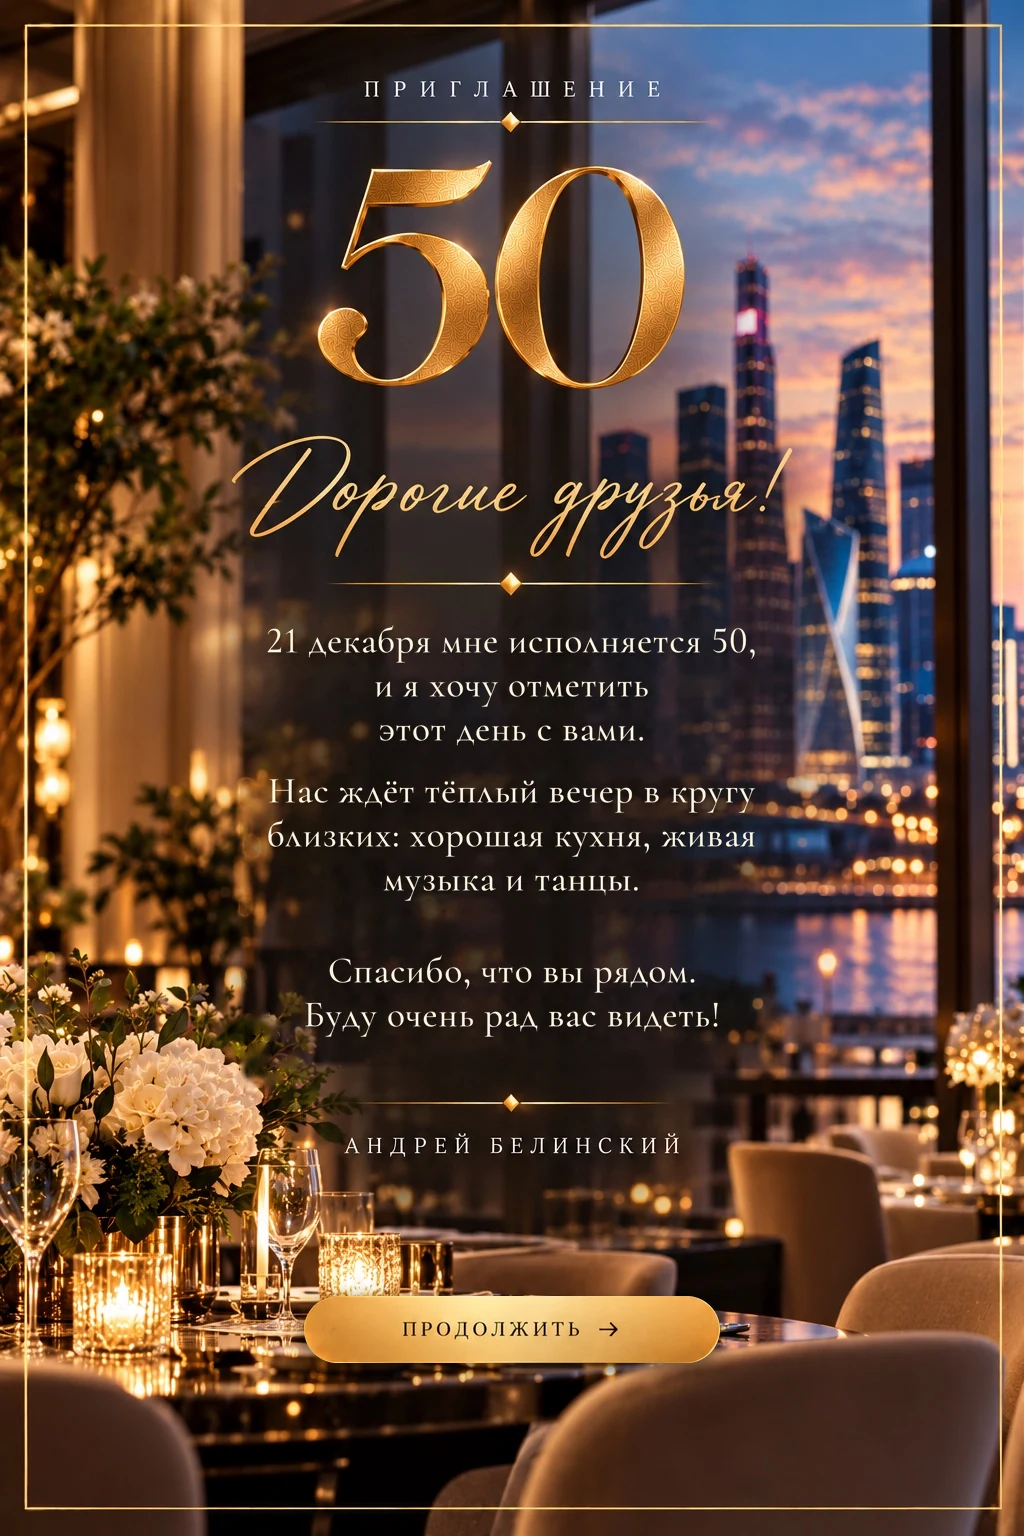
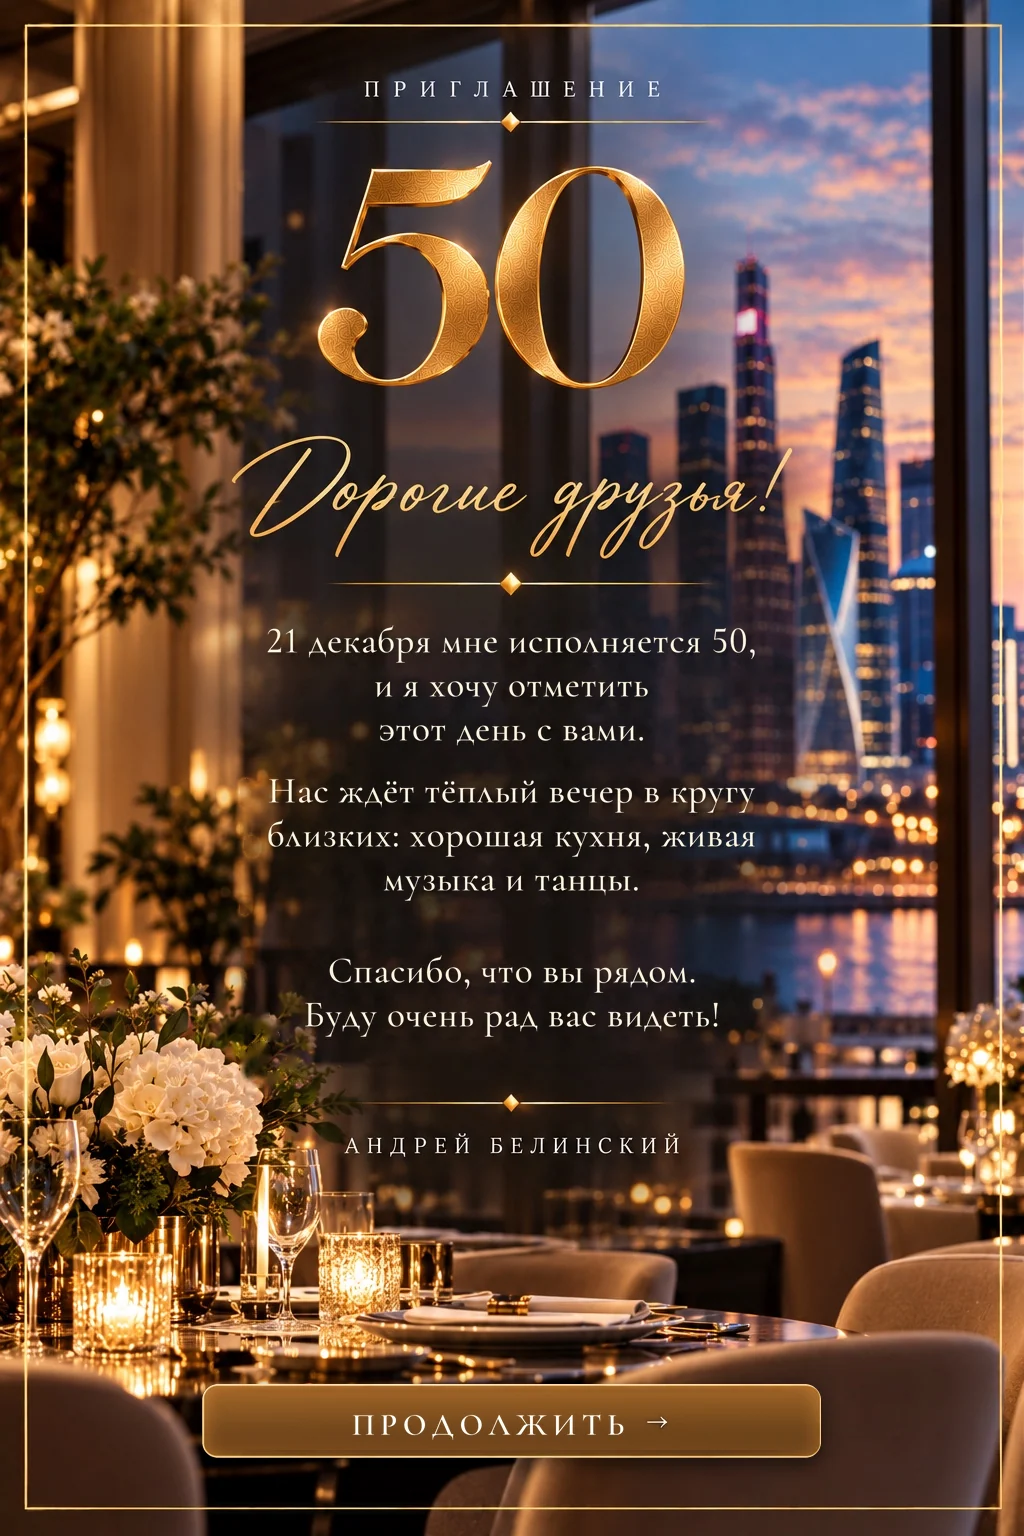
inv-a50-v4: designer fixes (bands, canopy, buttons, text-free bg, route screen, demo wording)

Changed region(s): [[0.1875, 0.8438, 0.8125, 0.9688]]

diff --git a/inv-a50-v4-d9b400/index.html b/inv-a50-v4-d9b400/index.html
@@ -13,24 +13,48 @@
 @font-face{font-family:"Cormorant SC";font-weight:500;src:url(fonts/sc500.woff2) format("woff2");font-display:swap}
 @font-face{font-family:"Cormorant SC";font-weight:600;src:url(fonts/sc600.woff2) format("woff2");font-display:swap}
 *{box-sizing:border-box;-webkit-tap-highlight-color:transparent}
-html,body{margin:0;height:100%;background:#120a06;color:#f6e6c8;font-family:"Cormorant Garamond",Georgia,serif;font-weight:500}
-.screen{display:none;position:relative;width:100%;height:100vh;height:100svh;overflow:hidden;background:#120a06;align-items:center;justify-content:center}
+html,body{margin:0;height:100%;background:#1b0f09;color:#f6e6c8;font-family:"Cormorant Garamond",Georgia,serif;font-weight:500}
+:root{--pt:calc(env(safe-area-inset-top,0px) + 60px)}
+.screen{display:none;position:relative;width:100%;height:100vh;height:100svh;overflow:hidden;background:#1b0f09;align-items:flex-start;justify-content:center;padding-top:var(--pt)}
+.screen::before{content:"";position:absolute;inset:0;z-index:1;pointer-events:none;background:radial-gradient(ellipse 85% 70% at 50% 42%,rgba(27,15,9,0) 30%,rgba(27,15,9,.78) 100%)}
 .screen.active{display:flex}
-.bg{position:absolute;inset:-40px;background-size:cover;background-position:center;filter:blur(18px) brightness(.8) saturate(1.15)}
-.bg.deep{background-size:auto 190%;background-position:50% 100%;filter:blur(5px) brightness(.62) saturate(1.2)}
-.frame{position:relative;flex:none;width:min(100vw,calc(100vh*2/3));width:min(100vw,calc(100svh*2/3));aspect-ratio:2/3;box-shadow:0 0 40px #000a}
+.bg{position:absolute;inset:-60px;background-color:#1b0f09;background-size:cover;background-position:center;filter:blur(32px) brightness(.4) saturate(1.1)}
+/* фон без текста для экранов с карточкой: низ img05 (свечи и стол) + затемнение */
+.bg.tf{inset:-40px;background-image:linear-gradient(rgba(27,15,9,.65),rgba(27,15,9,.65)),url(img/bg-tf.webp);background-size:100% 100%;background-position:center;filter:blur(24px)}
+.frame{position:relative;z-index:2;flex:none;width:min(100vw,calc((100vh - var(--pt))*2/3));width:min(100vw,calc((100svh - var(--pt))*2/3));aspect-ratio:2/3;box-shadow:0 0 40px #000a}
+@media(min-width:700px){.screen{align-items:center;padding-bottom:var(--pt)}}
+#p7,#p9{align-items:center;padding-bottom:16px}
+#p7 .card,#p9 .card{max-height:calc(100vh - var(--pt) - 16px);max-height:calc(100svh - var(--pt) - 16px)}
 .frame img{display:block;width:100%;height:100%;user-select:none;-webkit-user-drag:none}
 .tap{position:absolute;border:0;padding:0;background:transparent;cursor:pointer;touch-action:manipulation;border-radius:14px}
 .tap:focus-visible{outline:3px solid #fff}
 .tap:active{background:rgba(0,0,0,.2);transform:scale(.985)}
 .debug .tap{outline:2px solid #0f0;background:rgba(0,255,0,.12)}
 .check{position:absolute;pointer-events:none;border:2px solid #ffd887;border-radius:12px;box-shadow:0 0 14px #e9a74a,inset 0 0 10px rgba(255,216,135,.25)}
-.scroll{overflow:auto;-webkit-overflow-scrolling:touch;display:none;height:100vh;height:100svh;background:#120a06;width:100%}
-.scroll.active{display:flex}
-.scroll .frame{margin:auto;aspect-ratio:1312/1199;width:min(1312px,max(100vw,820px));box-shadow:none}
-.back-nav{position:fixed;top:calc(env(safe-area-inset-top,0px) + 10px);left:10px;z-index:50;border:1px solid rgba(230,190,115,.7);background:rgba(18,10,6,.72);backdrop-filter:blur(6px);color:#f1d9a6;border-radius:20px;padding:7px 14px 6px;font:600 13px "Cormorant SC",serif;letter-spacing:.14em;cursor:pointer;touch-action:manipulation}
+.route{display:none;position:relative;height:100vh;height:100svh;overflow:auto;-webkit-overflow-scrolling:touch;background:#fdf6ec;color:#30241a;padding-top:calc(56px + env(safe-area-inset-top,0px))}
+.route.active{display:block}
+.topbar{position:fixed;top:0;left:0;right:0;z-index:40;height:calc(56px + env(safe-area-inset-top,0px));background:#1b0f09;border-bottom:1px solid rgba(217,178,111,.35)}
+.route-in{max-width:900px;margin:0 auto}
+.mapbox{position:relative}
+.mapbox img{display:block;width:100%;height:auto}
+.zoom-btn{display:block;width:calc(100% - 32px);margin:12px 16px 0;font:600 16px "Cormorant SC",serif;letter-spacing:.14em;color:#f1d9a6;background:#1b0f09;border:1px solid rgba(230,190,115,.8);border-radius:40px;padding:12px 16px 11px;cursor:pointer;touch-action:manipulation}
+.info{display:grid;grid-template-columns:1fr;gap:6px;padding:12px 16px 28px}
+.blk{display:flex;gap:14px;align-items:flex-start;padding:14px 0;border-bottom:1px solid rgba(120,80,40,.22)}
+.blk:last-child{border:0}
+.blk img{flex:none;width:58px;height:58px;object-fit:contain}
+.blk h3{margin:2px 0 4px;font:600 26px/1.1 "Cormorant SC",serif;letter-spacing:.06em;color:#34240f}
+.blk p{margin:0;font:600 18px/1.3 "Cormorant Garamond",serif;color:#30241a}
+.blk .note{margin-top:10px;padding:9px 12px;border-radius:12px;background:#fce8b9}
+@media(min-width:760px){.info{grid-template-columns:repeat(3,1fr);gap:24px}.blk{border:0;flex-direction:column}}
+#zoom{position:fixed;inset:0;z-index:100;display:none;overflow:auto;background:#fdf6ec;-webkit-overflow-scrolling:touch;touch-action:pan-x pan-y pinch-zoom}
+#zoom.open{display:block}
+#zoom img{display:block;width:1312px;max-width:none;height:auto;margin-top:calc(56px + env(safe-area-inset-top,0px))}
+#zoomBar{position:fixed;top:0;left:0;right:0;z-index:101;height:calc(56px + env(safe-area-inset-top,0px));background:#1b0f09;display:none}
+#zoomBar.open{display:block}
+#zoomBar button{position:absolute;top:calc(env(safe-area-inset-top,0px) + 12px);left:10px}
+.back-nav{position:fixed;top:calc(env(safe-area-inset-top,0px) + 12px);left:10px;z-index:50;border:1px solid rgba(230,190,115,.7);background:rgba(18,10,6,.72);backdrop-filter:blur(6px);color:#f1d9a6;border-radius:20px;padding:7px 14px 6px;font:600 13px "Cormorant SC",serif;letter-spacing:.14em;cursor:pointer;touch-action:manipulation}
 .back-nav[hidden]{display:none}
-.card{position:relative;width:min(92vw,520px);max-height:94vh;max-height:94svh;overflow:auto;padding:30px 24px 26px;border-radius:20px;background:linear-gradient(160deg,rgba(44,26,15,.8),rgba(14,8,5,.86));-webkit-backdrop-filter:blur(10px);backdrop-filter:blur(10px);border:1px solid #d9b26f;box-shadow:0 0 0 5px rgba(18,10,6,.55),0 0 0 6px rgba(217,178,111,.4),0 24px 70px #000b;text-align:center}
+.card{position:relative;z-index:2;margin-top:0;width:min(92vw,520px);max-height:94vh;max-height:94svh;overflow:auto;padding:30px 24px 26px;border-radius:20px;background:linear-gradient(160deg,rgba(44,26,15,.8),rgba(14,8,5,.86));-webkit-backdrop-filter:blur(10px);backdrop-filter:blur(10px);border:1px solid #d9b26f;box-shadow:0 0 0 5px rgba(18,10,6,.55),0 0 0 6px rgba(217,178,111,.4),0 24px 70px #000b;text-align:center}
 .eyebrow{font:600 14px "Cormorant SC",serif;letter-spacing:.34em;color:#e7c98e;margin:0 0 6px}
 .card h1,.card h2{margin:6px 0 10px;font-weight:600;font-size:clamp(40px,11vw,54px);line-height:1.08;background:linear-gradient(180deg,#fdeabc 0%,#e8bf6d 52%,#b98530 100%);-webkit-background-clip:text;background-clip:text;color:transparent;-webkit-text-fill-color:transparent}
 .rule{height:1px;margin:10px auto 16px;width:70%;background:linear-gradient(90deg,transparent,#d9b26f,transparent)}
@@ -63,14 +87,23 @@ html,body{margin:0;height:100%;background:#120a06;color:#f6e6c8;font-family:"Cor
 <section class="screen" id="p4"><div class="bg" style="background-image:url(img/img05.webp)"></div><div class="frame"><img src="img/img05.webp" loading="lazy" decoding="async" alt="Присутствие"></div></section>
 <section class="screen" id="p5"><div class="bg" style="background-image:url(img/img06.webp)"></div><div class="frame"><img src="img/img06.webp" loading="lazy" decoding="async" alt="Количество гостей"></div></section>
 <section class="screen" id="p6"><div class="bg" style="background-image:url(img/img07.webp)"></div><div class="frame"><img src="img/img07.webp" loading="lazy" decoding="async" alt="Напитки"></div></section>
-<section class="screen" id="p7"><div class="bg deep" style="background-image:url(img/img06.webp)"></div>
+<section class="screen" id="p7"><div class="bg tf"></div>
  <div class="card"><div class="eyebrow">ЮБИЛЕЙ 50 ЛЕТ</div><h2>Почти готово!</h2><div class="rule"></div><p>Укажите имя и фамилию<br>и проверьте ответы.</p>
  <div class="name-fields"><input id="first" placeholder="Имя" autocomplete="given-name" aria-label="Имя"><input id="last" placeholder="Фамилия" autocomplete="family-name" aria-label="Фамилия"></div>
  <div class="answer-card"><div class="answer-row"><span>Присутствие</span><strong id="a"></strong></div><div class="answer-row"><span>Гостей (включая вас)</span><strong id="c"></strong></div><div class="answer-row"><span>Напитки</span><strong id="d"></strong></div></div>
  <div class="actions"><button class="btn" id="confirmBtn" onclick="confirmAnswer()">Подтвердить</button><button class="btn ghost" onclick="show(4)">Изменить ответы</button></div></div></section>
-<section class="scroll" id="p8"><div class="frame"><img src="img/img01.webp" loading="lazy" decoding="async" alt="Схема проезда, парковки и входа №10"></div></section>
-<section class="screen" id="p9" aria-live="polite"><div class="bg deep" style="background-image:url(img/img06.webp)"></div>
- <div class="card"><span class="demo" id="demoTag" hidden>демо</span><div class="eyebrow">ЮБИЛЕЙ 50 ЛЕТ</div><h1 id="thH"></h1><div class="rule"></div><p id="thP"></p>
+<section class="route" id="p8"><div class="topbar"></div><div class="route-in">
+ <div class="mapbox"><img src="img/map.webp" alt="Схема проезда к ЦМТ: въезд с Краснопресненской набережной, подъезд № 10" onclick="openZoom()"></div>
+ <button type="button" class="zoom-btn" onclick="openZoom()">ОТКРЫТЬ КРУПНО</button>
+ <div class="info">
+  <div class="blk"><img src="img/ic-car.png" alt=""><div><h3>ВЪЕЗД</h3><p>С Краснопресненской набережной, через ближайший к Москва-Сити въезд (если ехать из центра, он последний).</p></div></div>
+  <div class="blk"><img src="img/ic-park.png" alt=""><div><h3>ПАРКОВКА</h3><p>На территории ЦМТ.</p><p class="note">Для гостей бесплатна: на вечере вам выдадут карту для выезда.</p></div></div>
+  <div class="blk"><img src="img/ic-door.png" alt=""><div><h3>ВХОД</h3><p>Подъезд № 10, клубный корпус Plaza Garden, зал «Дорчестер».</p></div></div>
+ </div></div></section>
+<div id="zoomBar"><button type="button" class="back-nav" onclick="closeZoom()">✕ ЗАКРЫТЬ</button></div>
+<div id="zoom"><img src="img/map.webp" alt="Схема проезда, крупно"></div>
+<section class="screen" id="p9" aria-live="polite"><div class="bg tf"></div>
+ <div class="card"><span class="demo" id="demoTag" hidden>демо</span><div class="eyebrow">ЮБИЛЕЙ 50 ЛЕТ</div><h1 id="thH"></h1><div class="rule"></div><p id="thP"></p><p class="notice" id="thNote" hidden></p>
  <div class="actions"><button class="btn" id="thRetry" onclick="retrySend()" hidden>Отправить ответ</button><button class="btn ghost" id="thCopy" onclick="shareAnswer()" hidden>Скопировать ответ</button><button class="btn ghost" id="thCal" onclick="calendar()">Добавить в календарь</button><button class="btn ghost" onclick="show(7)">Изменить ответы</button></div>
  <button class="linkbtn" onclick="show(8)">Схема проезда и парковки</button></div></section>
 </main><script>
@@ -79,8 +112,8 @@ const S=n=>document.getElementById('p'+n);
 function zone(n,x,y,w,h,fn,label){const f=S(n).querySelector('.frame'),b=document.createElement('button');b.className='tap';b.style.cssText=`left:${x}%;top:${y}%;width:${w}%;height:${h}%`;b.setAttribute('aria-label',label);b.onclick=fn;f.append(b);return b}
 zone(1,19.73,90.76,60.45,4.82,()=>show(2),'Открыть приглашение');
 zone(1,66.5,79.8,30,9.8,()=>show(8,1),'Схема проезда: ЦМТ, подъезд № 10');
-zone(2,29.7,84.4,40.6,4.36,()=>show(3),'Продолжить');
-zone(3,29.7,92.97,40.6,4.36,()=>show(4),'Продолжить');
+zone(2,19.73,90.10,60.45,4.82,()=>show(3),'Продолжить');
+zone(3,19.73,90.10,60.45,4.82,()=>show(4),'Продолжить');
 zone(4,19.73,39.84,60.45,9.83,()=>attendance('Да, приду'),'Да, приду');zone(4,19.73,51.17,60.45,9.96,()=>attendance('Пока не знаю'),'Пока не знаю');zone(4,19.73,62.70,60.45,9.90,()=>attendance('К сожалению, не смогу'),'Не смогу');
 function attendance(v){state.attend=v;show(v==='К сожалению, не смогу'?7:5)}
 zone(5,17.68,47.53,64.94,10.48,()=>{state.count=1;show(6)},'Приду один');zone(5,17.68,59.51,64.94,10.61,()=>{state.count=2;show(6)},'Придём вдвоём');
@@ -89,7 +122,10 @@ positions.forEach(([x,y,h],i)=>zone(6,x,y,37.01,h,()=>{const label=labels[i];if(
 zone(6,26.66,82.88,47.46,5.21,()=>show(7),'Продолжить');
 function drawChecks(){const f=S(6).querySelector('.frame');f.querySelectorAll('.check').forEach(n=>n.remove());state.drinks.forEach(v=>{const i=labels.indexOf(v),[x,y,h]=positions[i],c=document.createElement('div');c.className='check';c.style.cssText=`left:${x}%;top:${y}%;width:37.01%;height:${h}%`;f.append(c)})}
 let currentPage=1,prevPage=1;
-function goBack(){if(currentPage===8)show(prevPage);else if(currentPage===9)show(7);else if(currentPage>1)show(currentPage-1)}
+function openZoom(){document.getElementById('zoom').classList.add('open');document.getElementById('zoomBar').classList.add('open');document.getElementById('zoom').scrollTo(0,0)}
+function closeZoom(){document.getElementById('zoom').classList.remove('open');document.getElementById('zoomBar').classList.remove('open')}
+addEventListener('keydown',e=>{if(e.key==='Escape')closeZoom()});
+function goBack(){if(document.getElementById('zoom').classList.contains('open')){closeZoom();return}if(currentPage===8)show(prevPage);else if(currentPage===9)show(7);else if(currentPage>1)show(currentPage-1)}
 function show(n,from){if(n===8)prevPage=from||currentPage;currentPage=n;document.querySelectorAll('main > section').forEach(x=>x.classList.remove('active'));S(n).classList.add('active');document.getElementById('backNav').hidden=(n===1);
  if(n===7){document.getElementById('a').textContent=state.attend||'Не выбрано';document.getElementById('c').textContent=state.attend==='К сожалению, не смогу'?'—':state.count;document.getElementById('d').textContent=state.drinks.join(', ')||'—'}
  window.scrollTo(0,0);const sc=S(n);if(sc.scrollTo)sc.scrollTo(0,0)}
@@ -115,7 +151,7 @@ function confirmAnswer(){if(!first.value.trim()||!last.value.trim()){alert('По
 async function shareAnswer(){const t=message();if(navigator.share){try{await navigator.share({title:'Ответ на приглашение',text:t});return}catch(e){}}try{await navigator.clipboard.writeText(t);alert('Ответ скопирован. Вставьте его в сообщение Андрею и отправьте.')}catch(e){prompt('Скопируйте ответ:',t)}}
 function calendar(){const content=['BEGIN:VCALENDAR','VERSION:2.0','PRODID:-//Birthday Invite//RU','BEGIN:VEVENT','UID:andrey50-20261221@invitation','DTSTAMP:20261029T090000Z','DTSTART:20261221T143000Z','DTEND:20261221T200000Z','SUMMARY:Юбилей Андрея Белинского — 50 лет','LOCATION:ЦМТ, Краснопресненская наб. 12, зал Дорчестер, подъезд 10','DESCRIPTION:Сбор гостей 17:30, банкет 18:00','END:VEVENT','END:VCALENDAR'].join('\r\n')+'\r\n';const a=document.createElement('a');a.href=URL.createObjectURL(new Blob([content],{type:'text/calendar;charset=utf-8'}));a.download='yubiley-andreya-21-dekabrya.ics';document.body.appendChild(a);a.click();a.remove();setTimeout(()=>URL.revokeObjectURL(a.href),2000)}
 show(1);
-function showThanks(ok,demo){const t=S(9);thH.textContent=ok?TX.okTitle:TX.errTitle;thP.textContent=ok?TX.okText:TX.errText;document.getElementById('demoTag').hidden=!(ok&&demo);
+function showThanks(ok,demo){const t=S(9);thH.textContent=ok?TX.okTitle:TX.errTitle;thP.textContent=ok?(demo?(TX.demoText||'Ваш ответ сохранён. До встречи 21 декабря!'):TX.okText):TX.errText;document.getElementById('demoTag').hidden=!(ok&&demo);const nt=document.getElementById('thNote');nt.hidden=!(ok&&demo);nt.textContent=TX.demoNote||'';
  thRetry.hidden=ok;thCopy.hidden=ok;thCal.hidden=!ok;show(9)}
 show(1);
 </script></body></html>

diff --git a/inv-a50-v4-d9b400/config.js b/inv-a50-v4-d9b400/config.js
@@ -10,7 +10,8 @@ window.INVITE_CONFIG = {
   TEXT: {
     okTitle: "Спасибо!",
     okText: "Ответ отправлен, Андрей его получил. До встречи 21 декабря!",
-    demoNote: "Демо-режим: ответ никуда не отправлен.",
+    demoText: "Ваш ответ сохранён. До встречи 21 декабря!",
+    demoNote: "Демо-режим: ответ сохранён только на этом устройстве и никуда не отправлен.",
     errTitle: "Спасибо!",
     errText: "Остался один шаг: нажмите «Отправить ответ», чтобы Андрей его получил. Пока вы не нажмёте, ответ сохранён только на вашем телефоне."
   }
